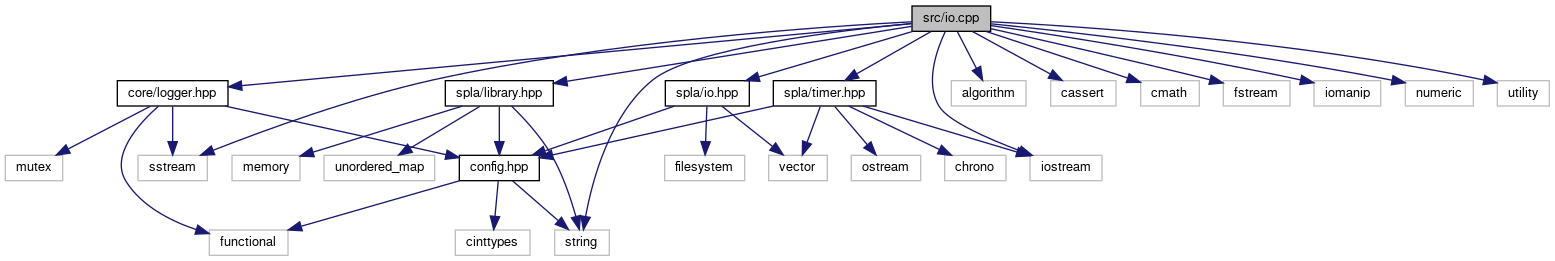
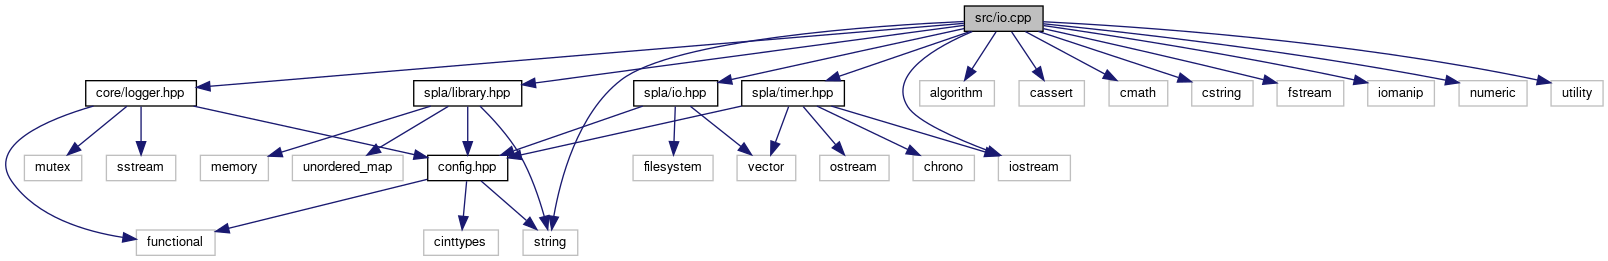
deploy: 52656ec2d9a8401737e18b07705a7ecdb2f350b0

diff --git a/docs-cpp/io_8cpp.html b/docs-cpp/io_8cpp.html
@@ -78,11 +78,11 @@ $(function() {
 <code>#include &lt;algorithm&gt;</code><br />
 <code>#include &lt;cassert&gt;</code><br />
 <code>#include &lt;cmath&gt;</code><br />
+<code>#include &lt;cstring&gt;</code><br />
 <code>#include &lt;fstream&gt;</code><br />
 <code>#include &lt;iomanip&gt;</code><br />
 <code>#include &lt;iostream&gt;</code><br />
 <code>#include &lt;numeric&gt;</code><br />
-<code>#include &lt;sstream&gt;</code><br />
 <code>#include &lt;string&gt;</code><br />
 <code>#include &lt;utility&gt;</code><br />
 </div><div class="textblock"><div class="dynheader">
@@ -90,31 +90,32 @@ Include dependency graph for io.cpp:</div>
 <div class="dyncontent">
 <div class="center"><img src="io_8cpp__incl.png" border="0" usemap="#asrc_2io_8cpp" alt=""/></div>
 <map name="asrc_2io_8cpp" id="asrc_2io_8cpp">
-<area shape="rect" title=" " alt="" coords="912,5,991,32"/>
-<area shape="rect" href="io_8hpp.html" title=" " alt="" coords="665,80,749,107"/>
-<area shape="rect" title=" " alt="" coords="555,229,609,256"/>
-<area shape="rect" href="library_8hpp.html" title=" " alt="" coords="445,80,553,107"/>
-<area shape="rect" href="timer_8hpp.html" title=" " alt="" coords="773,80,876,107"/>
-<area shape="rect" title=" " alt="" coords="1030,155,1102,181"/>
-<area shape="rect" href="logger_8hpp.html" title=" " alt="" coords="117,80,228,107"/>
-<area shape="rect" title=" " alt="" coords="138,155,207,181"/>
-<area shape="rect" title=" " alt="" coords="951,80,1026,107"/>
-<area shape="rect" title=" " alt="" coords="1051,80,1116,107"/>
-<area shape="rect" title=" " alt="" coords="1141,80,1199,107"/>
-<area shape="rect" title=" " alt="" coords="1223,80,1290,107"/>
-<area shape="rect" title=" " alt="" coords="1314,80,1381,107"/>
-<area shape="rect" title=" " alt="" coords="1405,80,1473,107"/>
-<area shape="rect" title=" " alt="" coords="1497,80,1549,107"/>
-<area shape="rect" href="config_8hpp.html" title=" " alt="" coords="459,155,539,181"/>
-<area shape="rect" title=" " alt="" coords="665,155,745,181"/>
-<area shape="rect" title=" " alt="" coords="769,155,827,181"/>
-<area shape="rect" title=" " alt="" coords="455,229,530,256"/>
-<area shape="rect" title=" " alt="" coords="209,229,288,256"/>
-<area shape="rect" title=" " alt="" coords="232,155,300,181"/>
-<area shape="rect" title=" " alt="" coords="324,155,435,181"/>
-<area shape="rect" title=" " alt="" coords="945,155,1006,181"/>
-<area shape="rect" title=" " alt="" coords="851,155,921,181"/>
-<area shape="rect" title=" " alt="" coords="5,155,63,181"/>
+<area shape="rect" title=" " alt="" coords="964,5,1043,32"/>
+<area shape="rect" href="io_8hpp.html" title=" " alt="" coords="634,80,718,107"/>
+<area shape="rect" title=" " alt="" coords="523,229,578,256"/>
+<area shape="rect" href="library_8hpp.html" title=" " alt="" coords="414,80,522,107"/>
+<area shape="rect" href="timer_8hpp.html" title=" " alt="" coords="742,80,844,107"/>
+<area shape="rect" title=" " alt="" coords="998,155,1070,181"/>
+<area shape="rect" href="logger_8hpp.html" title=" " alt="" coords="86,80,196,107"/>
+<area shape="rect" title=" " alt="" coords="920,80,994,107"/>
+<area shape="rect" title=" " alt="" coords="1019,80,1084,107"/>
+<area shape="rect" title=" " alt="" coords="1109,80,1168,107"/>
+<area shape="rect" title=" " alt="" coords="1192,80,1253,107"/>
+<area shape="rect" title=" " alt="" coords="1277,80,1344,107"/>
+<area shape="rect" title=" " alt="" coords="1368,80,1434,107"/>
+<area shape="rect" title=" " alt="" coords="1459,80,1527,107"/>
+<area shape="rect" title=" " alt="" coords="1551,80,1603,107"/>
+<area shape="rect" href="config_8hpp.html" title=" " alt="" coords="428,155,508,181"/>
+<area shape="rect" title=" " alt="" coords="633,155,713,181"/>
+<area shape="rect" title=" " alt="" coords="737,155,796,181"/>
+<area shape="rect" title=" " alt="" coords="424,229,498,256"/>
+<area shape="rect" title=" " alt="" coords="136,229,215,256"/>
+<area shape="rect" title=" " alt="" coords="200,155,268,181"/>
+<area shape="rect" title=" " alt="" coords="292,155,403,181"/>
+<area shape="rect" title=" " alt="" coords="913,155,974,181"/>
+<area shape="rect" title=" " alt="" coords="820,155,889,181"/>
+<area shape="rect" title=" " alt="" coords="24,155,82,181"/>
+<area shape="rect" title=" " alt="" coords="106,155,176,181"/>
 </map>
 </div>
 </div><table class="memberdecls">
